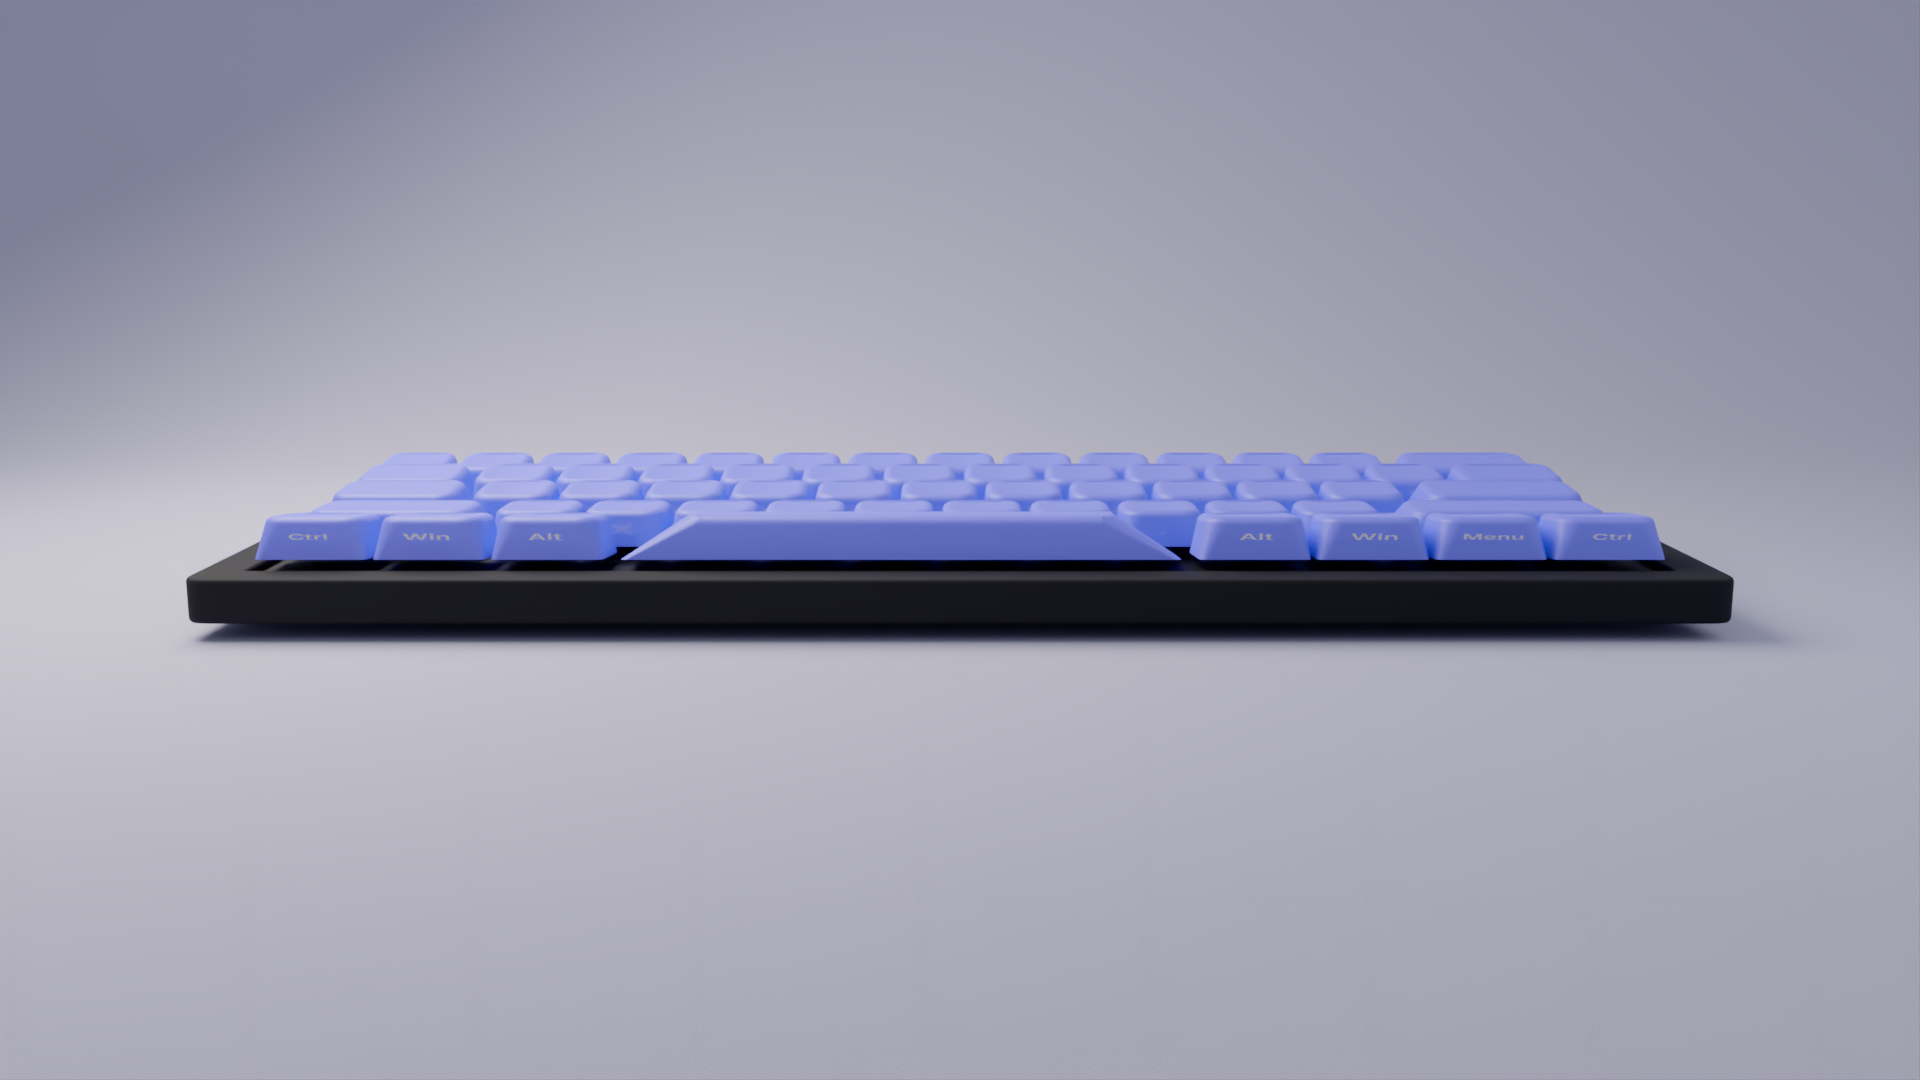
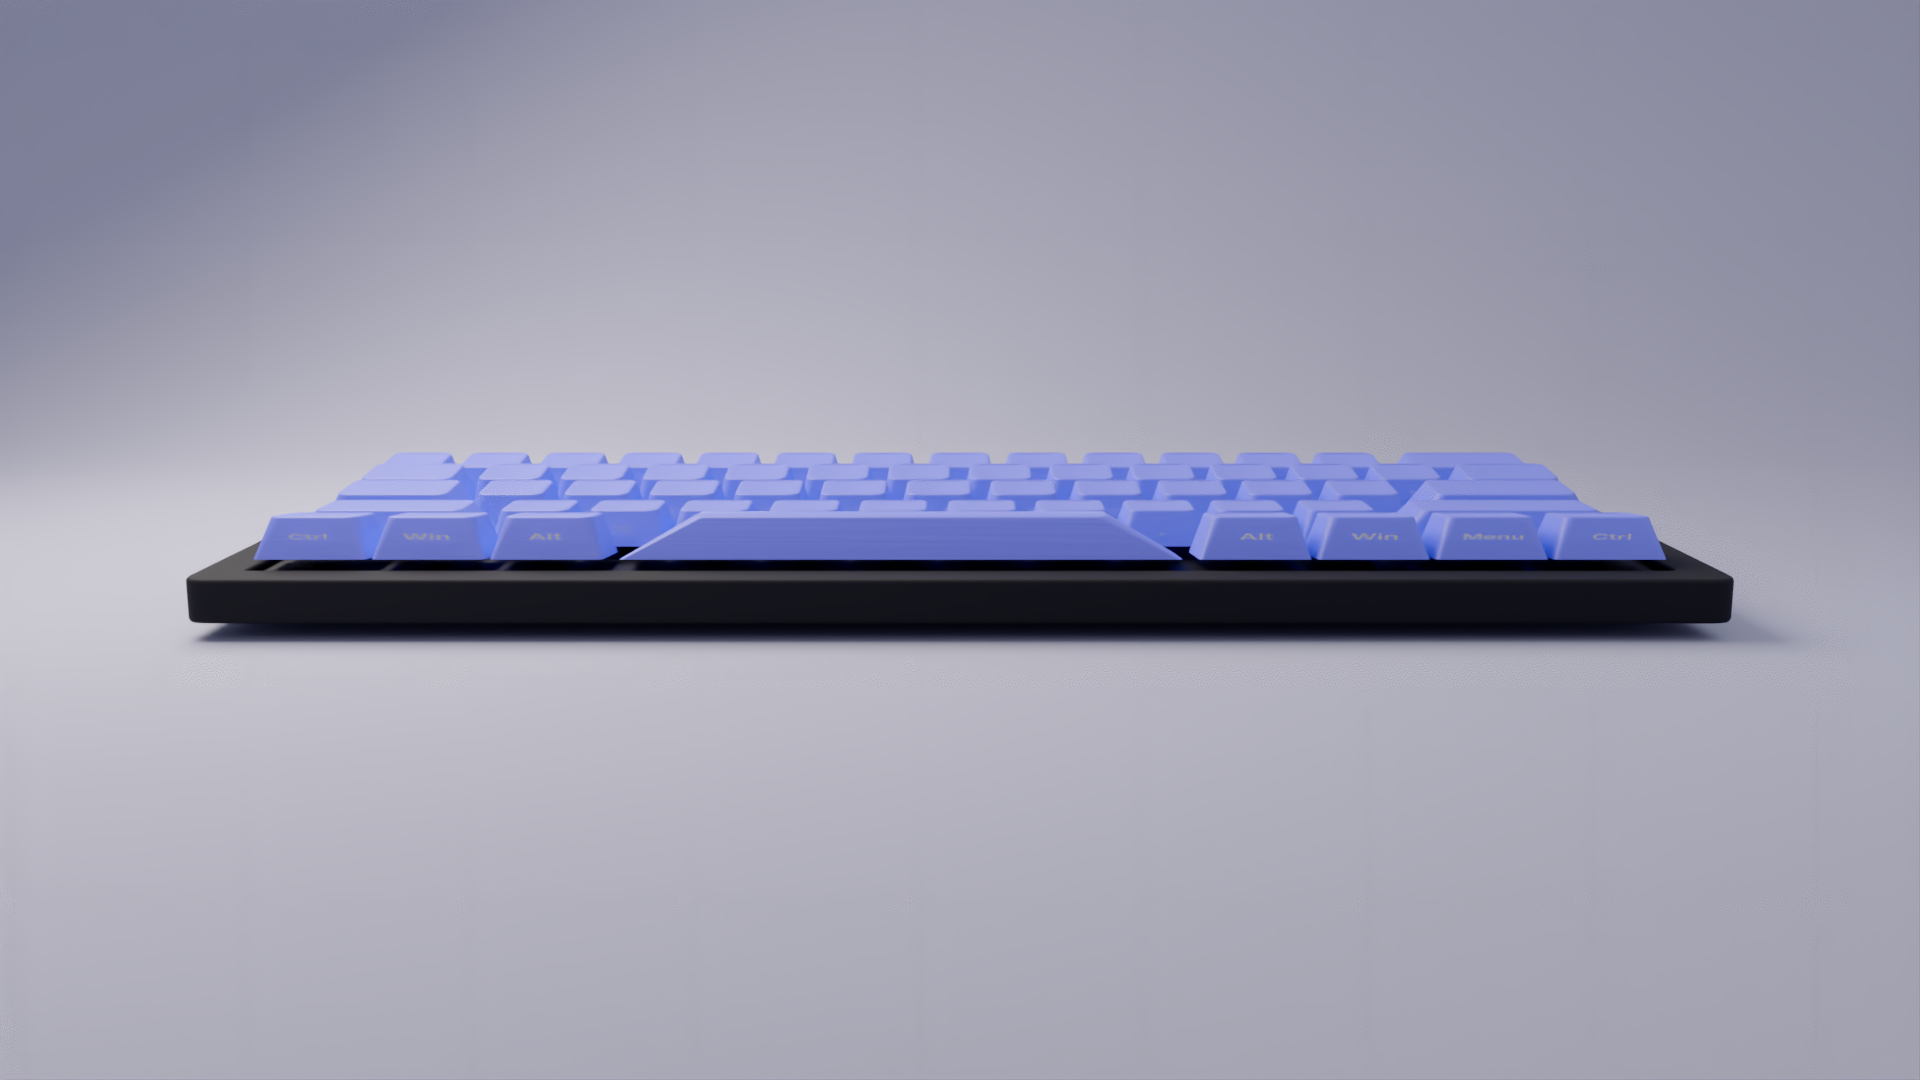
feat: GMK-sharp keycap edges + measured profile dims
The 1.8mm top-edge fillet read "smudged" — real injection-molded caps
are crisp. Verified against KeyV2's GMK-based cherry.scad (corner
radius 1mm, minkowski smoothing 0.33mm) and the bundled FreeCAD
cross-sections (wall meets dish with no modeled fillet at all):
- CAP_FILLET_MM 1.8 -> 0.55, CAP_BASE_R_MM 1.6 -> 1.0, CAP_TOP_R_MM 3.2 -> 1.8
- per-profile softness overrides (edgeFillet/topCornerR/baseCornerR) for
  the genuinely-round profiles: SA/KSA 1.0, MT3 1.1, KAT 0.8
- cherry base 18.1 -> 18.16 (KeyV2 GMK measurement)
- XDA corrected vs hajimen/keycap_designer 720dpi print masks:
  maxHeight 9.1 -> 9.5, top 13.5 -> 14.4 (real XDA is a wide flat top)

Verified: lab flip vs Red Samurai reference, closeup (cherry + XDA),
front-legend PT hero — 0 console errors on all three.

Changed region(s): [[0.1562, 0.4278, 0.6875, 0.5194], [0.7812, 0.4583, 0.8125, 0.4889]]

diff --git a/src/components/Keycap.jsx b/src/components/Keycap.jsx
@@ -135,16 +135,20 @@ const PROFILE_SPECS = {
   // cherry base 18.1mm = GMK footprint -> 0.05u gap at 19.05mm pitch (keysim GUTTER).
   // top 13.2/12.6: references/KeycapModels cross-sections measure a 12.3mm top
   // on an 18mm base (2.85mm taper/side) — 14.0 was reading slab-like.
-  cherry: { maxHeight: 9.4, dishType: 'cylindrical', dishDepth: 0.6, topWidth: 13.2, topDepth: 12.6, baseWidth: 18.1, baseDepth: 18.1, chamfer: 0.7, uniform: false, rowHeights: [1.000, 1.000, 0.904, 0.787, 0.904, 0.904], rowTilts: [0.122, 0.122, 0.087, 0, -0.105, -0.105] },
+  // base 18.16 per KeyV2's GMK-measured cherry.scad (18.16 x 18.16).
+  cherry: { maxHeight: 9.4, dishType: 'cylindrical', dishDepth: 0.6, topWidth: 13.2, topDepth: 12.6, baseWidth: 18.16, baseDepth: 18.16, chamfer: 0.7, uniform: false, rowHeights: [1.000, 1.000, 0.904, 0.787, 0.904, 0.904], rowTilts: [0.122, 0.122, 0.087, 0, -0.105, -0.105] },
   oem: { maxHeight: 11.9, dishType: 'cylindrical', dishDepth: 0.8, topWidth: 13.5, topDepth: 12.5, baseWidth: 18.0, baseDepth: 18.0, chamfer: 0.6, uniform: false, rowHeights: [1.000, 1.000, 0.924, 0.807, 0.924, 0.924], rowTilts: [0.140, 0.140, 0.100, 0, -0.120, -0.120] },
-  sa: { maxHeight: 16.5, dishType: 'spherical', dishDepth: 2.5, topWidth: 12.5, topDepth: 12.5, baseWidth: 18.4, baseDepth: 18.4, chamfer: 0.5, uniform: false, rowHeights: [1.000, 1.000, 0.971, 0.941, 0.941, 0.941], rowTilts: [0.150, 0.150, 0.100, 0, -0.100, -0.100] },
+  sa: { maxHeight: 16.5, dishType: 'spherical', dishDepth: 2.5, topWidth: 12.5, topDepth: 12.5, baseWidth: 18.4, baseDepth: 18.4, chamfer: 0.5, uniform: false, rowHeights: [1.000, 1.000, 0.971, 0.941, 0.941, 0.941], rowTilts: [0.150, 0.150, 0.100, 0, -0.100, -0.100], edgeFillet: 1.0, topCornerR: 2.6 },
   dsa: { maxHeight: 7.6, dishType: 'spherical', dishDepth: 1.0, topWidth: 13.0, topDepth: 13.0, baseWidth: 18.0, baseDepth: 18.0, chamfer: 0.8, uniform: true, rowHeights: [1.000, 1.000, 1.000, 1.000, 1.000, 1.000], rowTilts: [0, 0, 0, 0, 0, 0] },
-  xda: { maxHeight: 9.1, dishType: 'spherical', dishDepth: 0.5, topWidth: 13.5, topDepth: 13.5, baseWidth: 18.0, baseDepth: 18.0, chamfer: 0.8, uniform: true, rowHeights: [1.000, 1.000, 1.000, 1.000, 1.000, 1.000], rowTilts: [0, 0, 0, 0, 0, 0] },
-  kat: { maxHeight: 13.5, dishType: 'spherical', dishDepth: 1.8, topWidth: 13.0, topDepth: 12.5, baseWidth: 18.2, baseDepth: 18.2, chamfer: 0.6, uniform: false, rowHeights: [1.000, 1.000, 0.926, 0.852, 0.926, 0.926], rowTilts: [0.140, 0.140, 0.090, 0, -0.110, -0.110] },
-  mt3: { maxHeight: 16.0, dishType: 'spherical', dishDepth: 3.0, topWidth: 12.0, topDepth: 12.0, baseWidth: 18.4, baseDepth: 18.4, chamfer: 0.5, uniform: false, rowHeights: [1.000, 1.000, 0.969, 0.906, 0.938, 0.938], rowTilts: [0.160, 0.160, 0.110, 0, -0.120, -0.120] },
+  // XDA verified vs hajimen/keycap_designer print masks (720dpi): 9.5mm tall,
+  // top print surface ~14.5mm square on an 18mm base — much wider than the
+  // 13.5 we had. dish stays shallow.
+  xda: { maxHeight: 9.5, dishType: 'spherical', dishDepth: 0.5, topWidth: 14.4, topDepth: 14.4, baseWidth: 18.0, baseDepth: 18.0, chamfer: 0.8, uniform: true, rowHeights: [1.000, 1.000, 1.000, 1.000, 1.000, 1.000], rowTilts: [0, 0, 0, 0, 0, 0], edgeFillet: 0.6 },
+  kat: { maxHeight: 13.5, dishType: 'spherical', dishDepth: 1.8, topWidth: 13.0, topDepth: 12.5, baseWidth: 18.2, baseDepth: 18.2, chamfer: 0.6, uniform: false, rowHeights: [1.000, 1.000, 0.926, 0.852, 0.926, 0.926], rowTilts: [0.140, 0.140, 0.090, 0, -0.110, -0.110], edgeFillet: 0.8, topCornerR: 2.2 },
+  mt3: { maxHeight: 16.0, dishType: 'spherical', dishDepth: 3.0, topWidth: 12.0, topDepth: 12.0, baseWidth: 18.4, baseDepth: 18.4, chamfer: 0.5, uniform: false, rowHeights: [1.000, 1.000, 0.969, 0.906, 0.938, 0.938], rowTilts: [0.160, 0.160, 0.110, 0, -0.120, -0.120], edgeFillet: 1.1, topCornerR: 2.8 },
   asa: { maxHeight: 13.5, dishType: 'spherical', dishDepth: 1.5, topWidth: 13.2, topDepth: 12.8, baseWidth: 18.2, baseDepth: 18.2, chamfer: 0.6, uniform: false, rowHeights: [1.000, 1.000, 0.926, 0.852, 0.926, 0.926], rowTilts: [0.140, 0.140, 0.095, 0, -0.110, -0.110] },
   osa: { maxHeight: 12.0, dishType: 'spherical', dishDepth: 1.2, topWidth: 13.5, topDepth: 13.0, baseWidth: 18.2, baseDepth: 18.2, chamfer: 0.6, uniform: false, rowHeights: [1.000, 1.000, 0.920, 0.840, 0.920, 0.920], rowTilts: [0.130, 0.130, 0.090, 0, -0.110, -0.110] },
-  ksa: { maxHeight: 15.0, dishType: 'spherical', dishDepth: 2.2, topWidth: 12.5, topDepth: 12.5, baseWidth: 18.4, baseDepth: 18.4, chamfer: 0.5, uniform: false, rowHeights: [1.000, 1.000, 0.960, 0.920, 0.940, 0.940], rowTilts: [0.150, 0.150, 0.100, 0, -0.110, -0.110] },
+  ksa: { maxHeight: 15.0, dishType: 'spherical', dishDepth: 2.2, topWidth: 12.5, topDepth: 12.5, baseWidth: 18.4, baseDepth: 18.4, chamfer: 0.5, uniform: false, rowHeights: [1.000, 1.000, 0.960, 0.920, 0.940, 0.940], rowTilts: [0.150, 0.150, 0.100, 0, -0.110, -0.110], edgeFillet: 1.0, topCornerR: 2.6 },
   'low profile': { maxHeight: 6.0, dishType: 'cylindrical', dishDepth: 0.3, topWidth: 14.5, topDepth: 14.0, baseWidth: 17.0, baseDepth: 17.0, chamfer: 0.4, uniform: true, rowHeights: [1.000, 1.000, 1.000, 1.000, 1.000, 1.000], rowTilts: [0, 0, 0, 0, 0, 0] },
 };
 
@@ -167,9 +171,15 @@ export { PROFILE_SPECS, normalizeProfile, buildKeycapTextureFallback, getTopInse
 // All normals are analytic (wall tilt, fillet arc, dish derivative):
 // no computeVertexNormals, no UV-seam shading splits.
 // ============================================================
-const CAP_FILLET_MM = 1.8;   // top-edge fillet radius
-const CAP_BASE_R_MM = 1.6;   // corner radius at the base
-const CAP_TOP_R_MM = 3.2;    // corner radius at the top plate
+// Edge sharpness verified 2026-07-10 against KeyV2 (GMK-based CAD:
+// $corner_radius = 1, minkowski smoothing 0.33) and the bundled FreeCAD
+// cross-sections (wall meets dish with no modeled fillet at all). The old
+// 1.8/1.6/3.2 read "smudged" — real injection-molded caps are crisp.
+// Per-profile overrides: spec.edgeFillet / spec.baseCornerR / spec.topCornerR
+// (SA/MT3/KSA family genuinely IS rounder — see PROFILE_SPECS).
+const CAP_FILLET_MM = 0.55;  // top-edge fillet radius (GMK-sharp)
+const CAP_BASE_R_MM = 1.0;   // corner radius at the base (KeyV2 $corner_radius)
+const CAP_TOP_R_MM = 1.8;    // corner radius at the top plate
 const CAP_CORNER_SEGS = 8;   // outline samples per corner arc
 const CAP_FILLET_SEGS = 7;   // rings along the fillet arc
 const CAP_PLATE_T = [0.08, 0.3, 0.6, 0.85]; // plate ring insets (first = old chamfer-strip width)
@@ -204,11 +214,12 @@ function buildCapFrame(widthU, heightU, profile) {
   const tw = spec.topWidth * widthU * scale;
   const td = spec.topDepth * heightU * scale;
   const H = spec.maxHeight * scale;
-  const f = CAP_FILLET_MM * scale;
-  const base = roundedOutline(W / 2, D / 2, CAP_BASE_R_MM * scale, CAP_CORNER_SEGS);
+  const filletMm = spec.edgeFillet ?? CAP_FILLET_MM;
+  const f = filletMm * scale;
+  const base = roundedOutline(W / 2, D / 2, (spec.baseCornerR ?? CAP_BASE_R_MM) * scale, CAP_CORNER_SEGS);
   // Wall outline extrapolated to y=H sits a fillet-radius outside the
   // top plate, so after the fillet inset the plate lands at topWidth.
-  const ext = roundedOutline(tw / 2 + f, td / 2 + f, (CAP_TOP_R_MM + CAP_FILLET_MM) * scale, CAP_CORNER_SEGS);
+  const ext = roundedOutline(tw / 2 + f, td / 2 + f, ((spec.topCornerR ?? CAP_TOP_R_MM) + filletMm) * scale, CAP_CORNER_SEGS);
   const pts = base.map((b, i) => {
     const e = ext[i];
     const tx = e.x - b.x, tz = e.z - b.z;
